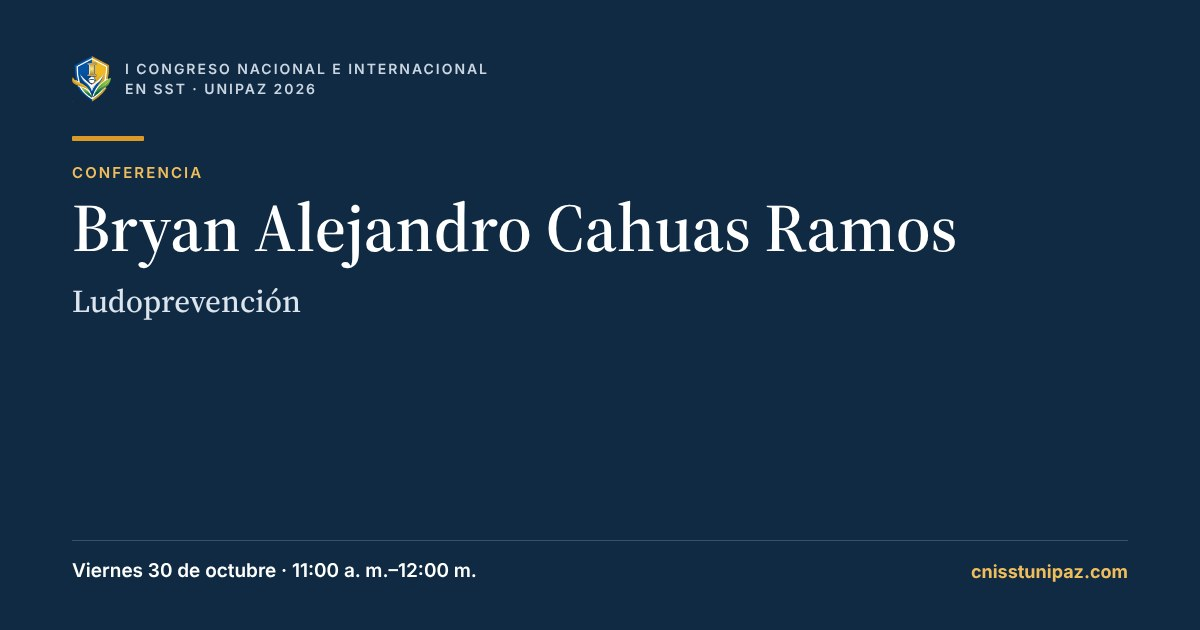
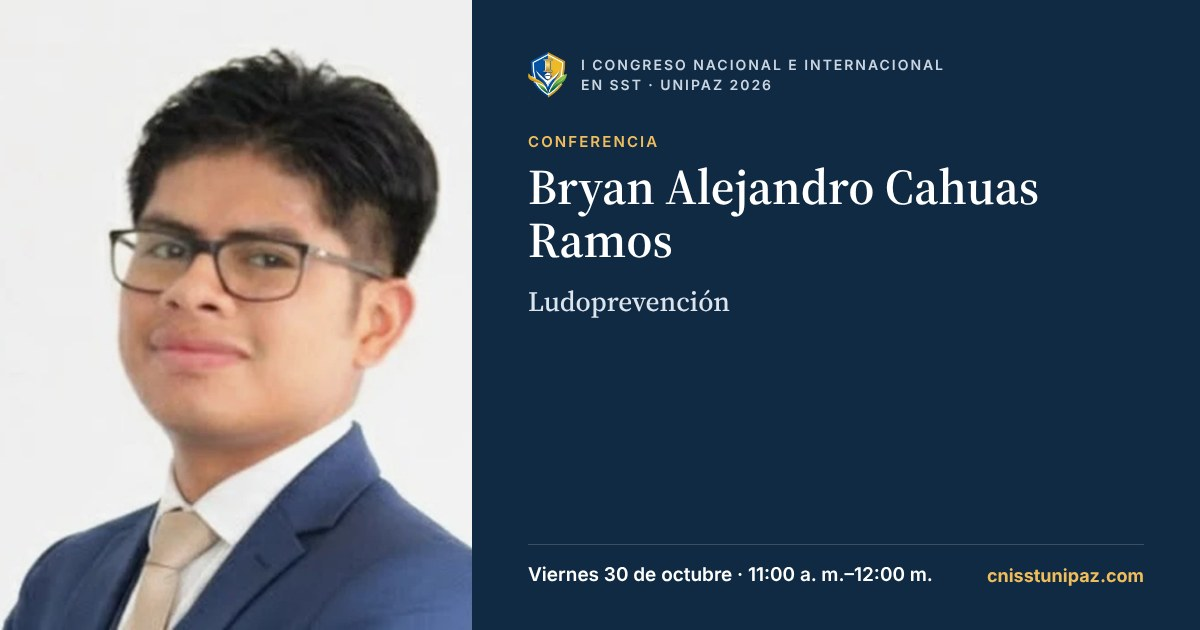
Foto de Bryan Alejandro Cahuas Ramos (retrato 4:5 y piezas para redes)
Claude-Session: https://claude.ai/code/session_01Qv7c1jYPaHgvpKaMHCKDRB

diff --git a/agenda.html b/agenda.html
@@ -987,7 +987,7 @@
 <div role="cell" class="ag-card ag-conf" data-sid="d2-1100" data-linea="3">
 <p class="ag-meta"><span class="ag-kind">Conferencia</span><span class="ag-where">Ambas salas</span></p>
 <h3 class="ag-t">Ludoprevención</h3>
-<span class="spk"><span class="spk-av"><span aria-hidden="true">BC</span></span><span><a class="spk-n" href="/conferencistas/bryan-alejandro-cahuas-ramos">Bryan Alejandro Cahuas Ramos</a> <span class="spk-c">· Colombia</span></span></span>
+<span class="spk"><span class="spk-av"><img src="/assets/img/conferencistas/bryan-alejandro-cahuas-ramos-retrato.webp" alt="" width="64" height="64" loading="lazy"></span><span><a class="spk-n" href="/conferencistas/bryan-alejandro-cahuas-ramos">Bryan Alejandro Cahuas Ramos</a> <span class="spk-c">· Colombia</span></span></span>
 <div class="ag-foot"><span class="ln ln-dark" style="--lc: #2E8A64" title="Línea temática 03: Salud integral, bienestar y factor humano"><i aria-hidden="true"></i><span><span class="sr-only">Línea temática </span><b>03</b> · Salud y bienestar</span></span><div class="ag-acts"><a class="join" href="https://script.google.com/a/unipaz.edu.co/macros/s/AKfycbzFbuIHIGAt6Qzu0JEtdtC7xSiuY-aFxTGHKP4vpxh0lcrqjanJ0_molqV-YIMtSb0hdQ/exec?qr=91d394c9be7941cbab523b63b76dbac0daa1c3e27d41488d877a889239fb4807" target="_blank" rel="noopener"><svg aria-hidden="true" width="15" height="15" viewBox="0 0 24 24" fill="none" stroke="currentColor" stroke-width="2" stroke-linecap="round" stroke-linejoin="round"><rect x="2" y="6" width="14" height="12" rx="2"></rect><path d="m16 10 6-3v10l-6-3z"></path></svg><span>Ingresar a la sesión</span><span class="sr-only">: Ludoprevención (se abre en una pestaña nueva)</span></a><button type="button" class="fav" data-fav="d2-1100" aria-pressed="false"><svg aria-hidden="true" width="14" height="14" viewBox="0 0 24 24" fill="none" stroke="currentColor" stroke-width="2" stroke-linejoin="round"><path d="m12 3 2.7 5.6 6.1.9-4.4 4.3 1 6.1L12 17l-5.4 2.9 1-6.1L3.2 9.5l6.1-.9z"></path></svg><span class="fav-l">Agregar a mi agenda</span><span class="sr-only">: Ludoprevención</span></button></div></div>
 </div>
 </div>
@@ -1357,7 +1357,7 @@
 <div class="ag-card ag-conf" data-sid="d2-1100" data-linea="3">
 <p class="ag-meta"><span class="ag-kind">Conferencia</span><span class="ag-where">Ambas salas</span></p>
 <h3 class="ag-t">Ludoprevención</h3>
-<span class="spk"><span class="spk-av"><span aria-hidden="true">BC</span></span><span><a class="spk-n" href="/conferencistas/bryan-alejandro-cahuas-ramos">Bryan Alejandro Cahuas Ramos</a> <span class="spk-c">· Colombia</span></span></span>
+<span class="spk"><span class="spk-av"><img src="/assets/img/conferencistas/bryan-alejandro-cahuas-ramos-retrato.webp" alt="" width="64" height="64" loading="lazy"></span><span><a class="spk-n" href="/conferencistas/bryan-alejandro-cahuas-ramos">Bryan Alejandro Cahuas Ramos</a> <span class="spk-c">· Colombia</span></span></span>
 <div class="ag-foot"><span class="ln ln-dark" style="--lc: #2E8A64" title="Línea temática 03: Salud integral, bienestar y factor humano"><i aria-hidden="true"></i><span><span class="sr-only">Línea temática </span><b>03</b> · Salud y bienestar</span></span><div class="ag-acts"><a class="join" href="https://script.google.com/a/unipaz.edu.co/macros/s/AKfycbzFbuIHIGAt6Qzu0JEtdtC7xSiuY-aFxTGHKP4vpxh0lcrqjanJ0_molqV-YIMtSb0hdQ/exec?qr=91d394c9be7941cbab523b63b76dbac0daa1c3e27d41488d877a889239fb4807" target="_blank" rel="noopener"><svg aria-hidden="true" width="15" height="15" viewBox="0 0 24 24" fill="none" stroke="currentColor" stroke-width="2" stroke-linecap="round" stroke-linejoin="round"><rect x="2" y="6" width="14" height="12" rx="2"></rect><path d="m16 10 6-3v10l-6-3z"></path></svg><span>Ingresar a la sesión</span><span class="sr-only">: Ludoprevención (se abre en una pestaña nueva)</span></a><button type="button" class="fav" data-fav="d2-1100" aria-pressed="false"><svg aria-hidden="true" width="14" height="14" viewBox="0 0 24 24" fill="none" stroke="currentColor" stroke-width="2" stroke-linejoin="round"><path d="m12 3 2.7 5.6 6.1.9-4.4 4.3 1 6.1L12 17l-5.4 2.9 1-6.1L3.2 9.5l6.1-.9z"></path></svg><span class="fav-l">Agregar a mi agenda</span><span class="sr-only">: Ludoprevención</span></button></div></div>
 </div>
 

diff --git a/conferencistas/bryan-alejandro-cahuas-ramos.html b/conferencistas/bryan-alejandro-cahuas-ramos.html
@@ -68,8 +68,8 @@
 <div class="sph-in hero-stagger">
 <div class="sph-ph">
 
+<img src="/assets/img/conferencistas/bryan-alejandro-cahuas-ramos-retrato.webp" alt="Fotografía de Bryan Alejandro Cahuas Ramos" width="560" height="560" class="portrait">
 
-<div aria-hidden="true" class="mono">BC</div>
 
 </div>
 <div>

diff --git a/index.html b/index.html
@@ -413,8 +413,8 @@
 <li class="sp" data-reveal>
 <div>
 
+<img src="/assets/img/conferencistas/bryan-alejandro-cahuas-ramos-retrato.webp" alt="Fotografía de Bryan Alejandro Cahuas Ramos" width="400" height="400" loading="lazy" class="portrait">
 
-<div aria-hidden="true" class="mono">BC</div>
 
 </div>
 <div>
